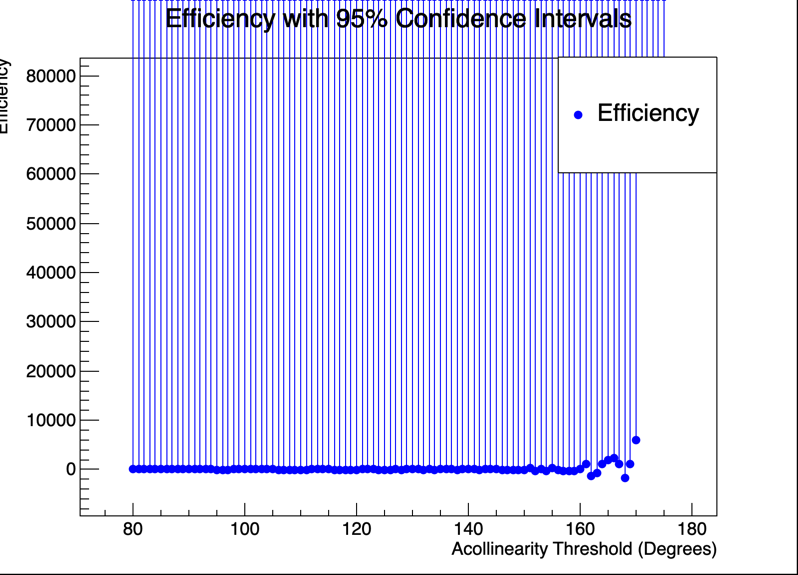
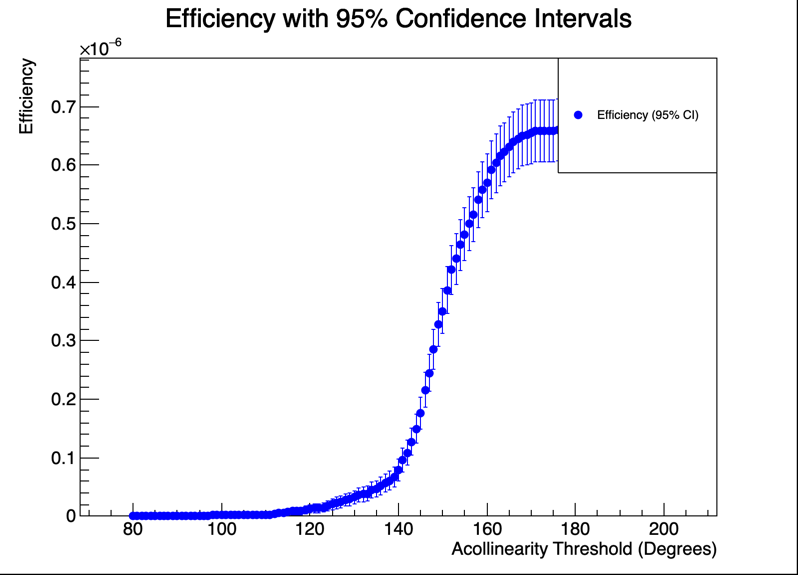
first commit

diff --git a/C++Root/Efficiency.cpp b/C++Root/Efficiency.cpp
@@ -24,9 +24,11 @@ Instructions:
    - Y-axis: Efficiency.
    - Include a legend for efficiency and confidence intervals.
 */
+
+
 #include <TH1F.h>
 #include <TCanvas.h>
-#include <TGraphErrors.h>
+#include <TGraphAsymmErrors.h>
 #include <TMath.h>
 #include <TLegend.h>
 #include <iostream>
@@ -34,90 +36,97 @@ Instructions:
 #include <TTree.h>
 
 void Efficiency() {
-   
+    // File path
     const char* file_path = "/Users/ndawyalmhzry/Master_project/ComputationalCourse/PythonRootMat/ROOT/mlpHiggs.root";
 
-   
+    // Open the ROOT file
     TFile *file = TFile::Open(file_path, "READ");
     if (!file || file->IsZombie()) {
         std::cerr << "Error opening file!" << std::endl;
         return;
     }
 
-   
+    // Access signal tree
     TTree *sig_tree = (TTree*)file->Get("sig_filtered");
-    TTree *bg_tree = (TTree*)file->Get("bg_filtered");
-
-    if (!sig_tree || !bg_tree) {
-        std::cerr << "Signal or Background tree not found!" << std::endl;
+    if (!sig_tree) {
+        std::cerr << "Signal tree not found!" << std::endl;
         return;
     }
 
-   
+    // Variables to read from the tree
     float acollinearity;
-    int signal_count, total_signal_count;
+    int total_signal_count;
 
-   
     sig_tree->SetBranchAddress("acolin", &acollinearity);
-    sig_tree->SetBranchAddress("signal_count", &signal_count);
-    sig_tree->SetBranchAddress("total_signal_count", &total_signal_count);
+    sig_tree->SetBranchAddress("signal_count", &total_signal_count);
 
-   
-    TCanvas *canvas = new TCanvas("canvas", "Efficiency with Confidence Intervals", 800, 600);
+    // Define acollinearity thresholds
+    const int num_thresholds = 121; // From 80 to 200 inclusive
+    double thresholds[num_thresholds];
+    double efficiencies[num_thresholds];
+    double lower_bounds[num_thresholds];
+    double upper_bounds[num_thresholds];
+    double errors_low[num_thresholds];
+    double errors_high[num_thresholds];
 
-    
-    TGraphErrors *efficiency_graph = new TGraphErrors();
-    int point_index = 0;
+    for (int i = 0; i < num_thresholds; i++) {
+        thresholds[i] = 80 + i;
+        efficiencies[i] = 0.0;
+        lower_bounds[i] = 0.0;
+        upper_bounds[i] = 0.0;
+    }
 
-    
-    for (int threshold = 80; threshold <= 200; threshold++) {
-       
-        int count_signal = 0;
-        int count_total_signal = 0;
-        for (int i = 0; i < sig_tree->GetEntries(); ++i) {
-            sig_tree->GetEntry(i);
-            if (acollinearity >= threshold) {
-                count_signal += signal_count;
-                count_total_signal += total_signal_count;
+    // Total number of events in signal tree
+    int n_events = sig_tree->GetEntries();
+
+    // Calculate efficiency and confidence intervals for each threshold
+    for (int i = 0; i < num_thresholds; i++) {
+        double threshold = thresholds[i];
+        int passed_signal_count = 0;
+
+        for (int j = 0; j < n_events; j++) {
+            sig_tree->GetEntry(j);
+            if (acollinearity <= threshold) {
+                passed_signal_count++;
             }
         }
 
-       
-        if (count_total_signal > 0) {
-            double efficiency = (double)count_signal / count_total_signal;
+        double efficiency = (double)passed_signal_count / total_signal_count;
+        efficiencies[i] = efficiency;
 
-           
-            double z = 1.96;
-            double error = z * TMath::Sqrt(efficiency * (1 - efficiency) / count_total_signal);
+        // Confidence interval calculation
+        double z = 1.96;
+        double error = z * TMath::Sqrt(efficiency * (1 - efficiency) / total_signal_count);
+        lower_bounds[i] = TMath::Max(0.0, efficiency - error);
+        upper_bounds[i] = TMath::Min(1.0, efficiency + error);
 
-           
-            efficiency_graph->SetPoint(point_index, threshold, efficiency);
-            efficiency_graph->SetPointError(point_index, 0, error); 
-            point_index++;
-        }
+        // Errors for plotting
+        errors_low[i] = efficiency - lower_bounds[i];
+        errors_high[i] = upper_bounds[i] - efficiency;
     }
 
+    // Create graph for efficiency with confidence intervals
+    TCanvas *canvas = new TCanvas("canvas", "Efficiency with 95% Confidence Intervals", 800, 600);
+    TGraphAsymmErrors *efficiency_graph = new TGraphAsymmErrors(num_thresholds, thresholds, efficiencies, 0, 0, errors_low, errors_high);
 
     efficiency_graph->SetTitle("Efficiency with 95% Confidence Intervals");
     efficiency_graph->GetXaxis()->SetTitle("Acollinearity Threshold (Degrees)");
     efficiency_graph->GetYaxis()->SetTitle("Efficiency");
-
     efficiency_graph->SetMarkerStyle(20);
     efficiency_graph->SetMarkerColor(kBlue);
     efficiency_graph->SetLineColor(kBlue);
 
-
+    // Draw the graph
     efficiency_graph->Draw("AP");
 
-
+    // Add legend
     TLegend *legend = new TLegend(0.7, 0.7, 0.9, 0.9);
-    legend->AddEntry(efficiency_graph, "Efficiency", "p");
+    legend->AddEntry(efficiency_graph, "Efficiency (95% CI)", "p");
     legend->Draw();
 
-
+    // Save the plot
     canvas->SaveAs("efficiency_with_confidence_intervals.png");
 
-
+    // Close the file
     file->Close();
 }
-
